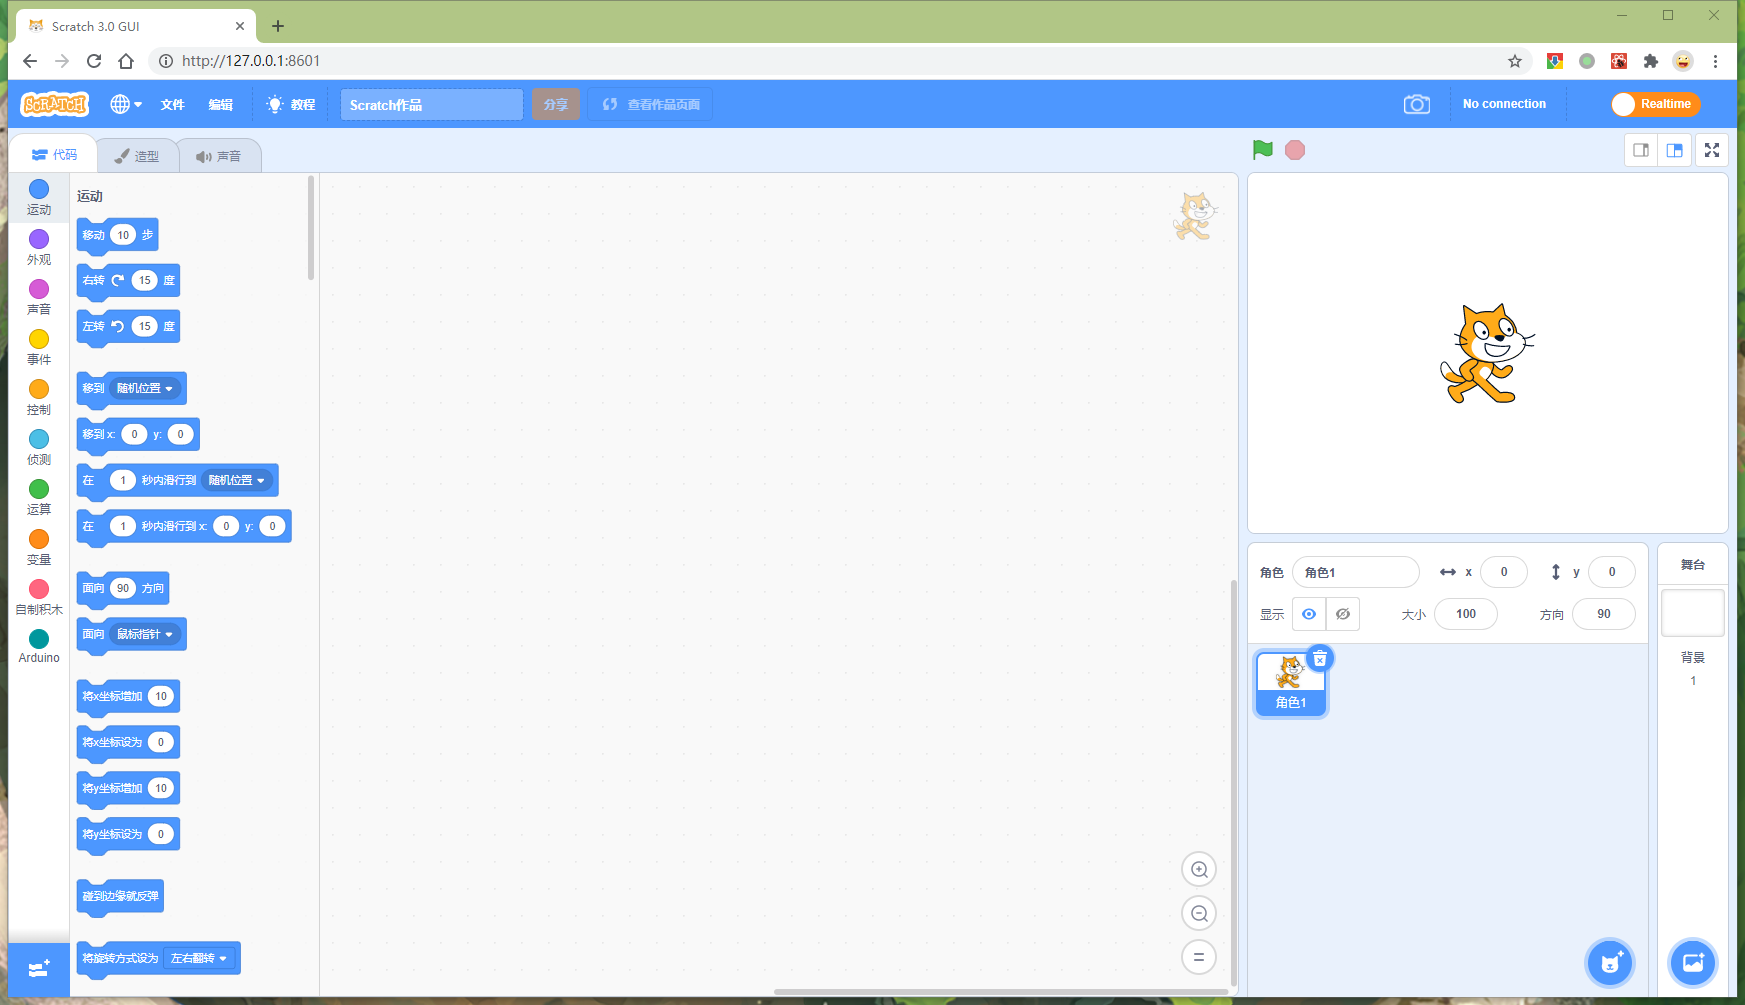
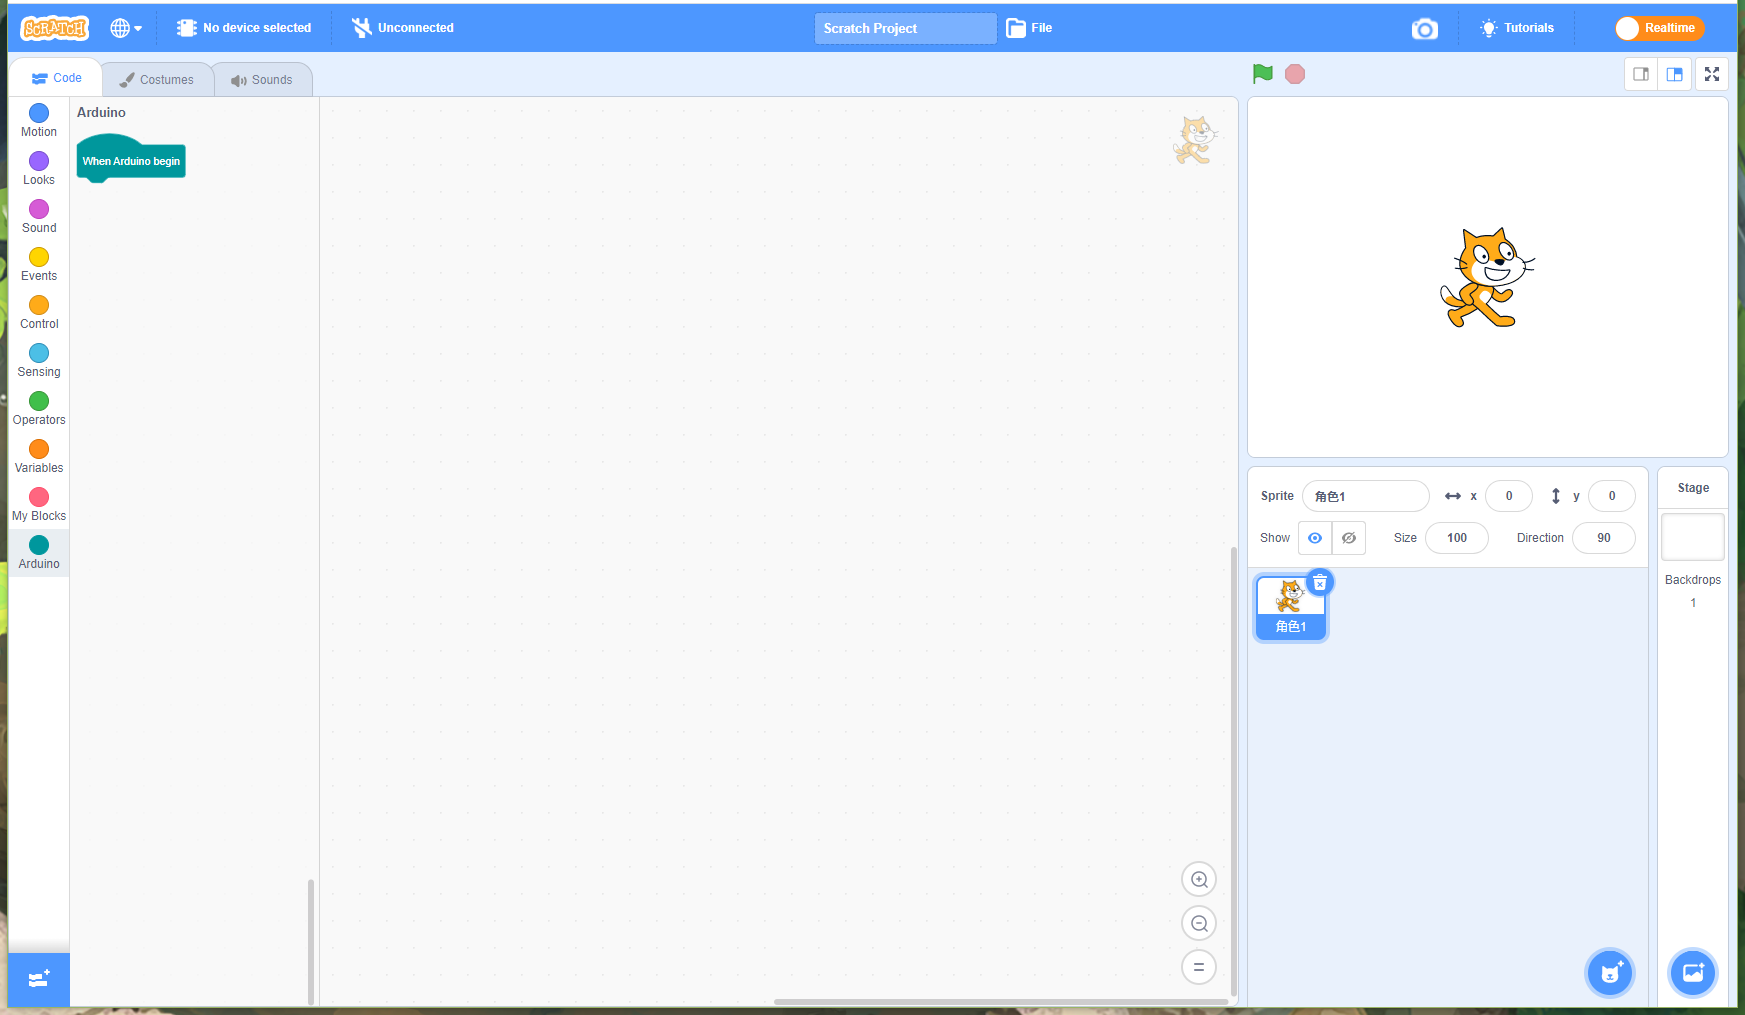
Update readme

diff --git a/README.md b/README.md
@@ -19,6 +19,8 @@ This is a fast changing and incomplete program. It's for professional developer.
 
 <img src="docs\8.png" alt="4" style="zoom:25%;" />
 
+<img src="docs\9.png" alt="4" style="zoom:25%;" />
+
 ## Installation
 
 1. Before build scratch-gui. You should clone these link. Run `npm install` and `npm link` in these floders. (If you are in China. You may need to use net proxy to finish the following)
@@ -41,9 +43,7 @@ This is a fast changing and incomplete program. It's for professional developer.
    ...
    ```
 
-2. Add some code to <u>scratch-blocks/arduino_compressed.js</u>, according to this **[Instruction](https://github.com/zhengyangliu/scratch-blocks/blob/develop/README.md)**.
-
-3. CLone and run install in scratch-gui, then link those project.
+3. Clone and run install in scratch-gui, then link those project.
 
    ```bash
    git clone https://github.com/zhengyangliu/scratch-gui
@@ -81,27 +81,6 @@ This is a fast changing and incomplete program. It's for professional developer.
 ## Project Structure Instruction
 
 ...
-
-## Development planning
-
-- Read indefinite number of extensions from a specified path. Include the info of the extensions.
-- Update toolbox by extensions.
-
-## Feature List
-
-### Little
-
-- Modify the execution program of code generation,  so that blocks' code can be generated immediately after modification, instead of waiting for the block drag to update.
-- Fix the bug. When start at upload mode, the sprite of stage won't render even if we change to realtime mode.
-- If device can not be connected, don't display original scratch link information, show the info of new  scratch-link.
-
-### Big
-
-- Load and unload extensions by click.
-- Lock block by program mode. 
-- Read indefinite number of extensions from a specified path. Include the info of the extensions.
-- Add device selection windows. Extension content list can change by this selection.
-- Update toolbox by deveice selection.
 
 ## Bug Report
 
